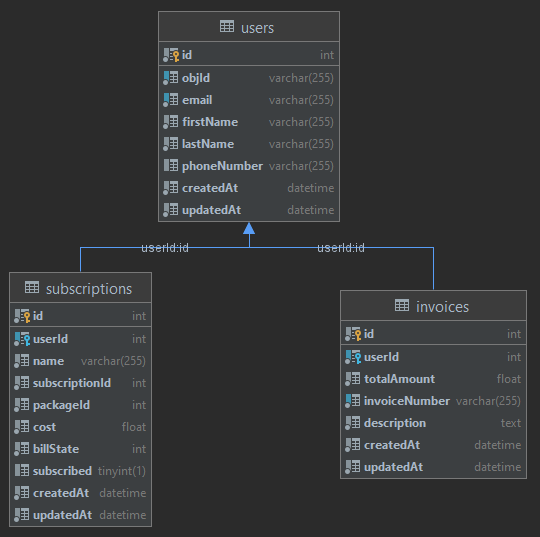
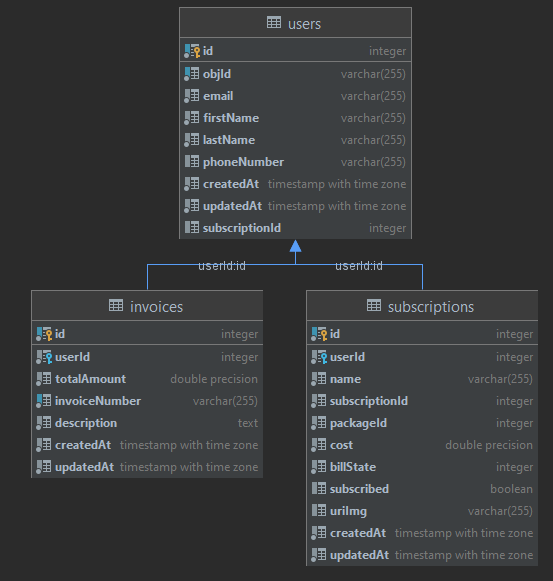
actualización documentacion

Changed region(s): [[0.0, 0.0, 0.9778, 0.9832]]

diff --git a/static/externalSubscriptionData.js b/static/externalSubscriptionData.js
@@ -2,24 +2,24 @@
 // ALL VALUES CANNOT BE NULL
 
 let payload = {
-   "userObjectId": "string", //objectId from SSO
-   "firstName": "string", 
-   "lastName": "string",
-   "email": "string",
-   "telephone": "string",
-   "subscriptionId": "string",
-   "packageData": [
+   serObjectId: "string", //objectId from SSO
+   firstName: "string", 
+   lastName: "string",
+   email: "string",
+   telephone: "string",
+   subscriptionId: "string",
+   packageData: [
        {
-           "id": 1, //Package id from subscription BD
-           "name": "string", //Package name from subscription BD
-           "price": 200,
-           "uriImg": "string" //Image Uri from subscription BD
+           id: 1, //Package id from subscription BD
+           name: "string", //Package name from subscription BD
+           price: 200,
+           uriImg: "string" //Image Uri from subscription BD
        },
        {
-           "id": 2,
-           "name": "string",
-           "price": 200,
-           "uriImg": "string"
+           id: 2,
+           name: "string",
+           price: 200,
+           uriImg: "string"
        }
    ]
 }

diff --git a/static/internalSubscriptionData.js b/static/internalSubscriptionData.js
@@ -1,15 +1,11 @@
 // Example body request structure for new subscription registration
 // ALL VALUES CANNOT BE NULL
 let payload = {
-    "userId": 1,
-    "userObjectId": "string", //ObjectId del usuario
-    "email":"string", //User Email
-    "name": "string", //Package name
-    "subscriptionId": 1, //id obtenido del context de React (una subscriptionId tiene varios paquetes asociados)
-    "packageId": 4, //este valor puede variar
-    "cost": 300,
-    "firstName":"string",
-    "lastName":"string",
-    "telephone":"string",
-    "uriImg": "string" //Package img Uri
+    userId: 1,
+    name: "string", //Package name
+    subscriptionId: 1, //id obtenido del context de React (una subscriptionId tiene varios paquetes asociados)
+    packageId: 1, //este valor puede variar
+    cost: 300,
+    email: "string", //User Email
+    uriImg: packageImage //Package img Uri
 }

diff --git a/README.md b/README.md
@@ -59,14 +59,5 @@ sequenceDiagram
     participant S as Suscripción
     F->>S: ¡El usuario se dió de baja en uno/s de sus paquetes! Te actualizo los datos.
 ```
-!!!
 
-### Modificar una suscripción.
-!!!light Modificación
-```mermaid
-sequenceDiagram
-    participant F as Facturación y Autogestión
-    participant S as Suscripción
-    F->>S: ¡El usuario modificó uno/s de sus paquetes! Te actualizo los datos.
-```
 !!!
